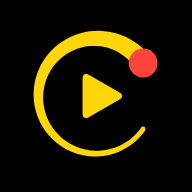
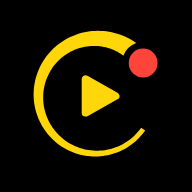
v0.16.1: ícone v2a (recorte no ponto vermelho)
Ícone com o ponto de gravação encaixado na ponta do C por um recorte preto, em SVG e PNG (180/192/512/favicon), e marca da tela de Início atualizada. Só visual: não toca na área protegida (voz/microfone). Docs: STATUS e histórico das rodadas de design.

Claude-Session: https://claude.ai/code/session_01G9VCduNbEq7QEMKnvwTAtz

diff --git a/docs/STATUS.md b/docs/STATUS.md
@@ -1,6 +1,10 @@
 # Status
 
-**Atualizado em:** 2026-10-30 · **No ar (`main`):** 0.16.0 · `estavel` = 0.15.7 (validada no iPhone; avançar para a 0.16.0 só depois da confirmação dele)
+**Atualizado em:** 2026-10-30 · **No ar (`main`):** 0.16.1 · `estavel` = 0.15.7 (validada no iPhone; avançar para a 0.16.1 só depois da confirmação dele)
+
+## v0.16.1 — ícone v2a (recorte no ponto vermelho)
+
+O Kenidy escolheu o **v2a**: o mesmo A2, mas com um pequeno recorte preto em volta do ponto vermelho, que fica "encaixado" na ponta do C (antes o ponto encostava no amarelo). Só visual: `public/icon.svg`, PNGs 180/192/512/favicon e `public/brand/mark.svg` (usado na tela de Início). Testadas e **descartadas** por ele (mantém o visual chapado): marcas de tempo, segundo rastro, brilho/reflexo, versões com volume (relevo, extrudado, tubo) e chapadas com sombra/bisel (histórico em `docs/design/rodada5.png` e `rodada6.png`; a F1 "sombra reta" ficou como ideia de reserva). Para ver o ícone novo no iPhone, remover e adicionar de novo o app na tela de início.
 
 ## v0.16.0 — marca e ícone (só visual, não toca na área protegida)
 
